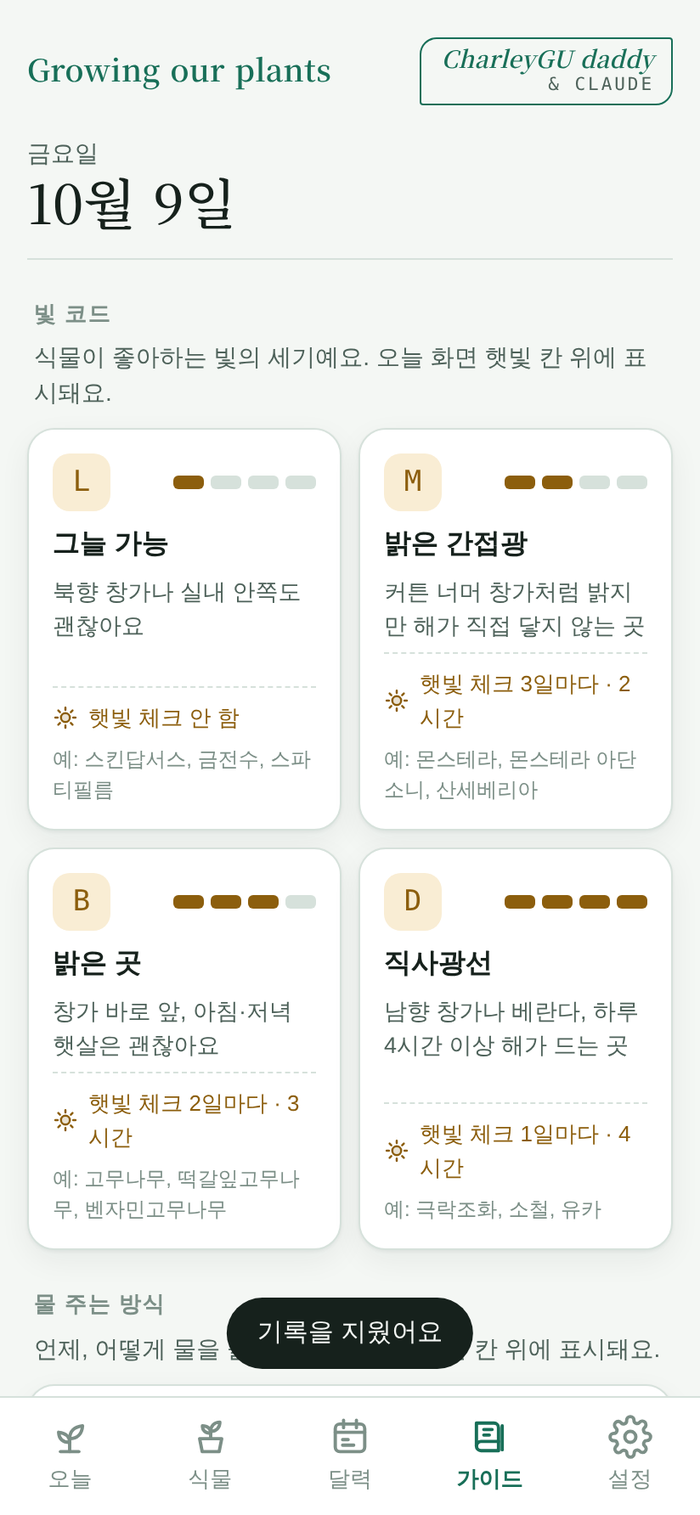
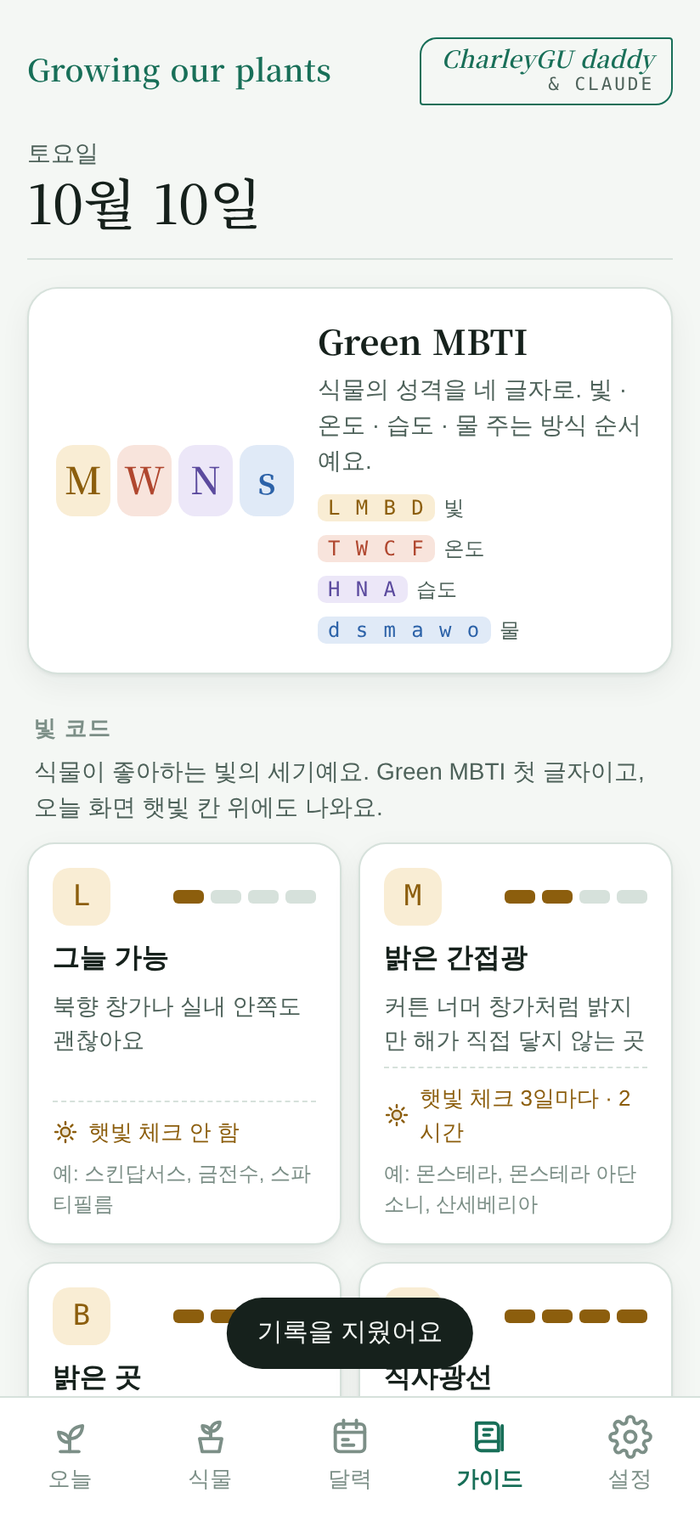
Add files via upload

diff --git a/README.md b/README.md
@@ -21,14 +21,15 @@
 |  |  |  |
 |---|---|---|
 | ![언어 고르기](docs/language.png) | ![오늘 화면](docs/today-ko.png) | ![가이드](docs/guide-ko.png) |
-| 처음 켤 때 언어를 한 번 | 식물마다 물·햇빛을 한눈에 | 빛 코드와 물 주는 방식 |
+| 처음 켤 때 언어를 한 번 | 식물마다 물·햇빛과 Green MBTI | 코드 뜻과 109종 주기표 |
 
 ## 어떤 앱인가요
 
-- **식물 100종의 기본 주기표**가 들어 있습니다. 목록에서 고르면 물 주기, 물 주는 방식, 좋아하는 빛이 자동으로 채워집니다.
+- **식물 109종의 기본 주기표**가 들어 있습니다. **식물가족 추가**에서 사진을 찍고 `내가 아는 식물 LIST`에서 고르면 물 주기, 물 주는 방식, 빛, 온도, 습도가 자동으로 채워집니다. 목록에 없으면 이름을 직접 적으면 됩니다.
+- 식물마다 **Green MBTI** 네 글자가 붙습니다. 빛 · 온도 · 습도 · 물 주는 방식 순서예요. 예: 몬스테라 `M W N s`, 소철 `D F A d`. 뜻은 **가이드** 탭에 있습니다.
 - **오늘** 화면에 식물마다 물 칸과 햇빛 칸이 있습니다. **칸 아무 데나 누르면** 완료로 바뀝니다.
 - 늦은 일은 빨강, 오늘 할 일은 파랑·노랑, 끝난 일은 초록으로 보입니다.
-- 물 칸 위에는 **물 주는 방식 코드**(예: `s` 겉흙 마르면), 햇빛 칸 위에는 **빛 코드**(예: `M` 밝은 간접광)가 나옵니다. 뜻은 **가이드** 탭에 있습니다.
+- 물 칸 위에는 **물 주는 방식 코드**(예: `s` 겉흙 마르면), 햇빛 칸 위에는 **빛 코드**(예: `M` 밝은 간접광)가 나옵니다.
 - **겨울(11~2월)** 에는 물 주기가 자동으로 길어집니다.
 - **음지 식물**은 햇빛 체크를 끌 수 있습니다.
 - 같은 식물을 여러 화분에 키우면 **별칭**(예: 거실 큰 화분)으로 구분합니다.
@@ -61,7 +62,7 @@
 | 정확한 시간 알람 | 정한 시각에 맞춰 울리게 합니다 |
 | 배터리 최적화 제외 | 절전 기능이 알림을 막지 않게 합니다 |
 
-그다음 **식물** 탭 → **목록에서 고르기** 로 식물을 추가하고, 설정에서 물·햇빛 알림 시각을 정하면 끝입니다.
+그다음 **식물** 탭 → **식물가족 추가** 로 식물을 등록하고, 설정에서 물·햇빛 알림 시각을 정하면 끝입니다.
 
 ## 개인정보
 
@@ -72,7 +73,7 @@
 ## 알아두실 점
 
 - 주기표의 숫자는 **실내 평균 기준값**입니다. 화분 크기, 흙, 볕에 따라 다르니 식물마다 −/+ 로 맞춰 주세요.
-- 가족과 기록을 함께 보는 **가족 공유**와 **사진으로 식물 알아보기**는 다음 버전에서 열립니다.
+- 가족과 기록을 함께 보는 **가족 공유**와 **AI 식물 검색**은 다음 버전에서 열립니다.
 
 ## 문의
 

diff --git a/README.en.md b/README.en.md
@@ -21,11 +21,12 @@ Point your phone camera at this code to go to the same place. (For printing: [do
 |  |  |  |
 |---|---|---|
 | ![Choose a language](docs/language.png) | ![Today](docs/today-en.png) | ![Calendar](docs/calendar-ko.png) |
-| Pick a language once | Water and sun for every plant | A month per plant |
+| Pick a language once | Water, sun and Green MBTI per plant | A month per plant |
 
 ## What it does
 
-- Comes with a **care table for 100 common houseplants**. Pick one and the watering interval, watering method and preferred light are filled in.
+- Comes with a **care table for 109 common plants**. In **Add a plant**, take a photo and pick from **Plants I know · LIST**; watering, light, temperature and humidity are filled in. Not in the list? Just type the name.
+- Every plant gets a four-letter **Green MBTI**: light · temperature · humidity · watering. Monstera is `M W N s`, sago palm `D F A d`. The **Guide** tab explains each letter.
 - On **Today**, each plant has a water box and a sun box. **Tap anywhere on a box** to mark it done.
 - Late is red, due today is blue or yellow, done is green.
 - Above the water box you see the **watering code** (e.g. `s` when the top is dry); above the sun box the **light code** (e.g. `M` bright indirect). The **Guide** tab explains them.
@@ -61,7 +62,7 @@ In **Settings → So reminders arrive on time**, make sure all three show **✓*
 | Exact alarms | Rings at the time you set |
 | Not battery-optimized | Stops power saving from blocking reminders |
 
-Then add plants from **Plants → Pick from the list** and set your water and sun reminder times in Settings.
+Then add plants from **Plants → Add a plant** and set your water and sun reminder times in Settings.
 
 ## Privacy
 
@@ -72,7 +73,7 @@ Then add plants from **Plants → Pick from the list** and set your water and su
 ## Good to know
 
 - The care table gives **indoor averages**. Pots, soil and light differ, so adjust each plant with −/+.
-- **Family sharing** and **identifying plants from a photo** come in the next version.
+- **Family sharing** and **AI plant identification** come in the next version.
 
 ## Contact
 
